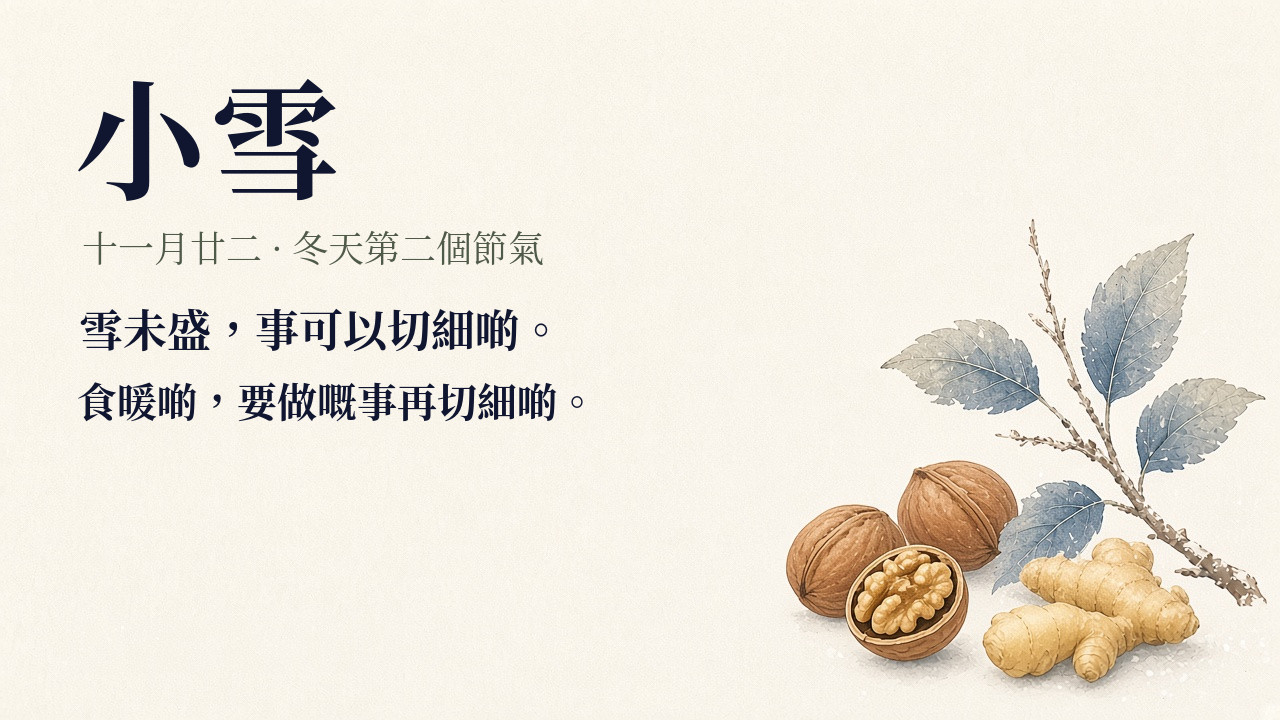
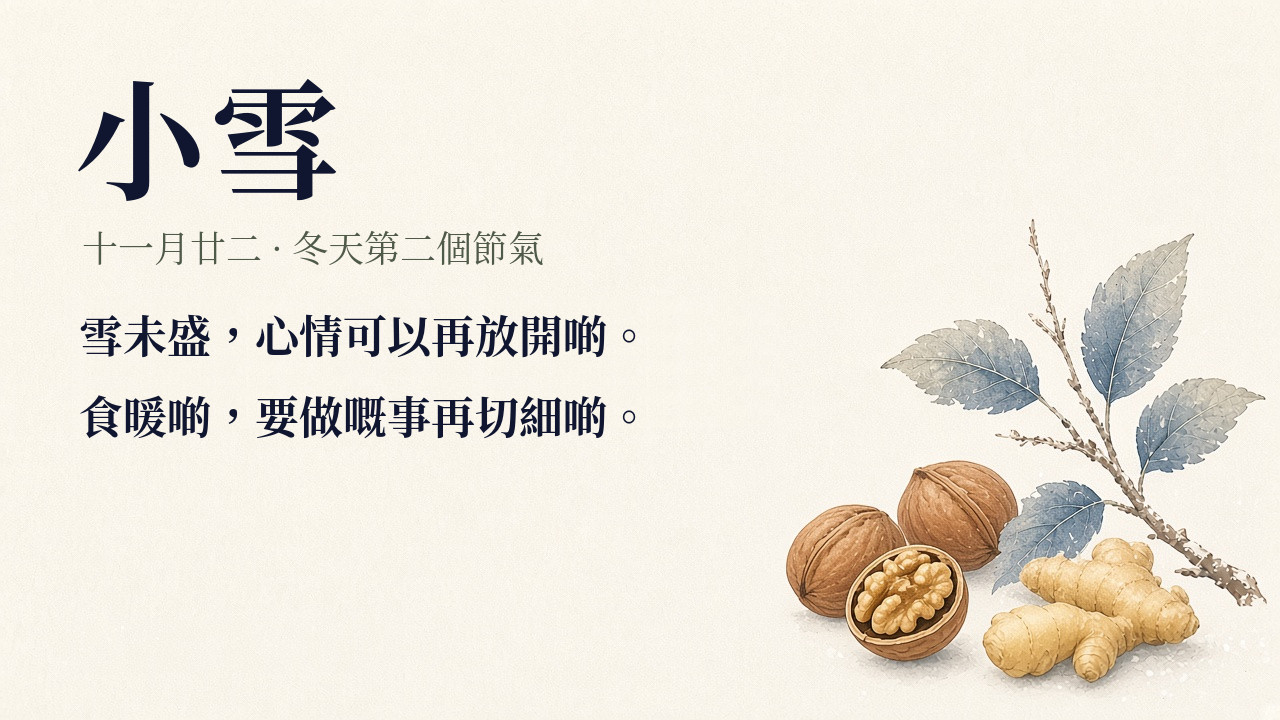
小雪：按定稿更新圖卡同短文標題
標題改為「雪未盛，心情可以再放開啲」（粵／普／英）；正文不變。圖卡用 card-v2 有碼版作分享圖、無碼 web 版作網頁。

Changed region(s): [[0.0625, 0.4278, 0.5, 0.6111]]

diff --git a/src/lib/jieqi-articles.ts b/src/lib/jieqi-articles.ts
@@ -532,7 +532,7 @@ export const JIEQI_ARTICLES: Record<string, JieqiArticle> = {
     room: "/anshen",
     card: "/jieqi/xiaoxue",
     yue: {
-      title: "小雪：雪未盛，事可以切細啲",
+      title: "小雪：雪未盛，心情可以再放開啲",
       paras: [
         "小雪係冬天第二個節氣。《月令七十二候集解》講：「小雪，十月中。雨下而為寒氣所薄，故凝而為雪。小者，未盛之辭。」又記三候：虹藏不見、天氣上升、地氣下降，終歸「閉塞而成冬」。雨遇寒氣凝成雪，但「小」係話未到盛大；虹伏、天地之氣唔交，季節再收一層。",
         "喺澳門未必見雪，但日再短、風再涼，身同心情都會想收細啲。有人會覺得件事好多、一步都行唔開；亦有人只係想食暖啲、行程放慢少少。想收、想細，係常見嘅事，唔一定代表有問題。",
@@ -543,7 +543,7 @@ export const JIEQI_ARTICLES: Record<string, JieqiArticle> = {
       source: "引文：《月令七十二候集解》；《黃帝內經素問·四氣調神大論》。",
     },
     cmn: {
-      title: "小雪：雪未盛，事可以切細一點",
+      title: "小雪：雪未盛，心情可以再放開一點",
       paras: [
         "小雪是冬天第二個節氣。《月令七十二候集解》說：「小雪，十月中。雨下而為寒氣所薄，故凝而為雪。小者，未盛之辭。」又記三候：虹藏不見、天氣上升、地氣下降，終歸「閉塞而成冬」。雨遇寒氣凝成雪，但「小」是說尚未盛大；虹伏、天地之氣不相交，季節再收一層。",
         "在澳門未必見到雪，但日再短、風再涼，身體和心情都會想收細一點。有人會覺得事情很多、一步都邁不開；也有人只是想吃得暖些、行程放慢一點。想收、想細，是常見的事，不一定代表有問題。",
@@ -554,7 +554,7 @@ export const JIEQI_ARTICLES: Record<string, JieqiArticle> = {
       source: "引文：《月令七十二候集解》；《黃帝內經素問·四氣調神大論》。",
     },
     en: {
-      title: "Minor Snow: the snow is not yet full, and tasks can be cut smaller",
+      title: "Minor Snow: the snow is not yet full, and the heart can ease a little more",
       paras: [
         "Minor Snow is the second solar term of winter. The Yueling Qishier Hou Jijie (月令七十二候集解) says: \u201cMinor Snow, the mid-tenth-month term. Rain falls and is pressed by cold qi, so it congeals as snow. \u2018Minor\u2019 means not yet abundant.\u201d It also records three pentads: the rainbow is hidden and unseen; heaven's qi rises; earth's qi descends \u2014 ending in \u201cclosed and blocked, and thus winter is formed.\u201d Rain meets cold and becomes snow, yet \u201cminor\u201d means it is not yet full; the rainbow withdraws, heaven and earth's qi do not meet, and the season draws in another layer.",
         "In Macau there may be no snow, yet the days grow shorter and the wind cooler \u2014 body and mood often want to draw in a little finer. Some people feel there is too much to do and cannot take a first step; others simply want to eat a little warmer and slow the schedule. Wanting to gather in and go finer is common and does not necessarily mean anything is wrong.",
